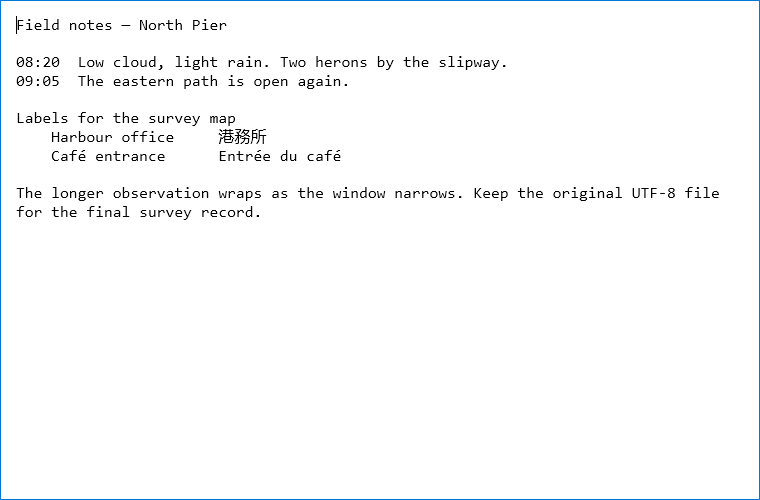
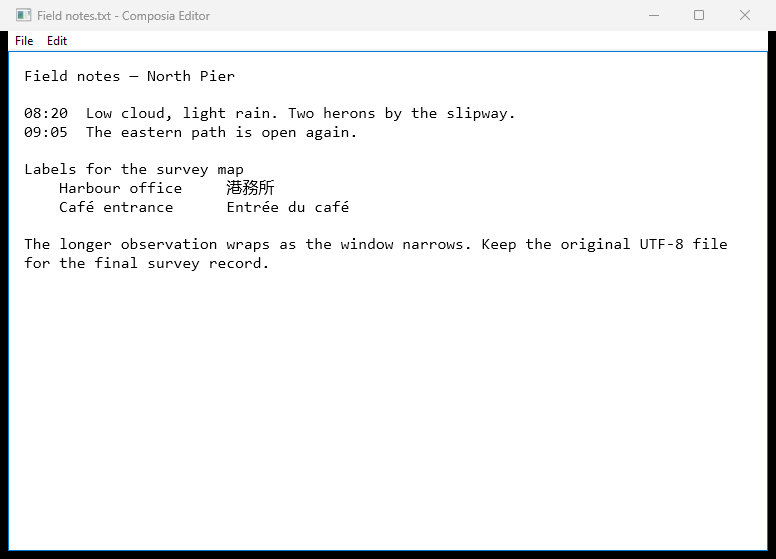
Give the editor a redirected window so Windows paints its native menu bar

diff --git a/tests/EditorTests.cpp b/tests/EditorTests.cpp
@@ -5,6 +5,35 @@
 
 using composia::testing::require;
 
+// SetMenu and GetMenuItemCount also succeed when a composition-only HWND has
+// nowhere to paint its native menu. Check the actual label pixels in the frame.
+static void check_menu_labels(HWND hwnd) {
+    RECT frame{};
+    THROW_IF_WIN32_BOOL_FALSE(GetWindowRect(hwnd, &frame));
+    const wil::unique_hdc_window screen{GetDC(nullptr)};
+    const wil::unique_hdc memory{CreateCompatibleDC(screen.get())};
+    const wil::unique_hbitmap bitmap{CreateCompatibleBitmap(screen.get(), frame.right - frame.left, frame.bottom - frame.top)};
+    require(memory && bitmap, "Could not allocate the editor frame capture");
+    const auto selected = wil::SelectObject(memory.get(), bitmap.get());
+    THROW_IF_WIN32_BOOL_FALSE(PrintWindow(hwnd, memory.get(), PW_RENDERFULLCONTENT));
+    for (UINT item = 0; item < 2; ++item) {
+        RECT bounds{};
+        THROW_IF_WIN32_BOOL_FALSE(GetMenuItemRect(hwnd, GetMenu(hwnd), item, &bounds));
+        OffsetRect(&bounds, -frame.left, -frame.top);
+        InflateRect(&bounds, -2, -2);
+        const auto background = GetPixel(memory.get(), bounds.left, bounds.top);
+        require(background != CLR_INVALID, "Menu item is outside the editor frame");
+        unsigned ink{};
+        for (LONG y = bounds.top; y < bounds.bottom; ++y) {
+            for (LONG x = bounds.left; x < bounds.right; ++x) {
+                const auto pixel = GetPixel(memory.get(), x, y);
+                if (pixel != CLR_INVALID && pixel != background) { ++ink; }
+            }
+        }
+        require(ink >= 8, "The editor menu label did not paint");
+    }
+}
+
 int main(int argc, char** argv) {
     return composia::testing::run(argc, argv, {{"document", [](const auto& options) {
         GUID id{};
@@ -22,6 +51,7 @@ int main(int argc, char** argv) {
             window.show(SW_SHOWNOACTIVATE);
             UpdateWindow(window.hwnd());
             require(GetMenuItemCount(GetMenu(window.hwnd())) == 2, "File and Edit menus must be attached");
+            check_menu_labels(window.hwnd());
             auto& field = dynamic_cast<composia::TextBox&>(window.elements().root());
             require(field.text() == L"Café 東京\rSecond line\r", "UTF-8 import or newline handling failed");
             window.focus_element(field);

diff --git a/src/ElementWindow.cpp b/src/ElementWindow.cpp
@@ -15,11 +15,15 @@ bool key_down(int key) { return (GetKeyState(key) & 0x8000) != 0; }
 
 ElementWindow::ElementWindow(Application& app, std::wstring_view title, int widthDip, int heightDip,
     std::shared_ptr<Element> root, HWND parent)
-    : Window(app, title, widthDip, heightDip, parent, WS_EX_NOREDIRECTIONBITMAP, true),
+    : ElementWindow(app, title, widthDip, heightDip, Content::composition, std::move(root), parent) {}
+
+ElementWindow::ElementWindow(Application& app, std::wstring_view title, int widthDip, int heightDip,
+    Content content, std::shared_ptr<Element> root, HWND parent)
+    : Window(app, title, widthDip, heightDip, parent, content == Content::composition ? WS_EX_NOREDIRECTIONBITMAP : 0, true),
       tree_(std::move(root), [this] {
           if (hwnd()) { THROW_IF_WIN32_BOOL_FALSE(PostMessageW(hwnd(), update_message(), 0, 0)); }
       }),
-      target_(*this, !parent || CompositionWindowTarget::hosts_children(parent)
+      target_(*this, content == Content::composition && (!parent || CompositionWindowTarget::hosts_children(parent))
           ? CompositionWindowTarget::Hosting::shared : CompositionWindowTarget::Hosting::standalone) {
     tree_.window_ = this;
     destroying_ = on_destroy([this] { ElementAutomation::disconnect(*this); tree_.release_window(); });

diff --git a/include/composia/ElementWindow.hpp b/include/composia/ElementWindow.hpp
@@ -7,11 +7,15 @@
 namespace composia {
 
 // A window or child pane that hosts one retained tree on one Composition drawing surface.
-// Uses shared hosting when top-level or when the parent has a shared target.
+// Composition-backed windows use shared hosting when top-level or when the parent has a shared target.
 class ElementWindow : public Window {
 public:
     ElementWindow(Application&, std::wstring_view title, int widthDip, int heightDip,
         std::shared_ptr<Element> root, HWND parent = nullptr);
+    // Use Content::native to keep the HWND backing bitmap for a Win32 menu bar.
+    // The retained tree still draws into its own standalone Composition target.
+    ElementWindow(Application&, std::wstring_view title, int widthDip, int heightDip,
+        Content, std::shared_ptr<Element> root, HWND parent = nullptr);
     ~ElementWindow() override;
     // Gives keyboard focus to this window and reveals the requested retained tab stop.
     bool focus_element(Element&);

diff --git a/examples/editor/Editor.cpp b/examples/editor/Editor.cpp
@@ -9,7 +9,7 @@ Editor::Editor(composia::Application& app)
         .name=L"Document", .multiline=true, .fontFamily=L"Consolas", .fontSize=16, .padding=16})) {}
 
 Editor::Editor(composia::Application& app, std::shared_ptr<composia::TextBox> field)
-    : ElementWindow(app, L"Untitled - Composia Editor", 760, 520, field), field_(std::move(field)) {
+    : ElementWindow(app, L"Untitled - Composia Editor", 760, 520, Content::native, field), field_(std::move(field)) {
     wil::unique_hmenu menu{LoadMenuW(GetModuleHandleW(nullptr), MAKEINTRESOURCEW(EDITOR_MENU))};
     THROW_LAST_ERROR_IF(!menu);
     THROW_IF_WIN32_BOOL_FALSE(SetMenu(hwnd(), menu.get()));

diff --git a/docs/guide.md b/docs/guide.md
@@ -138,6 +138,9 @@ animation on its own; nothing in the application needs a timer.
 `ElementWindow` hosts a tree in a top-level window or a child pane. It sizes the root
 to the client area, forwards mouse and keyboard input, and schedules partial paints.
 Pass a parent HWND to place a pane in the tab order beside native controls.
+For a window with a native Win32 menu bar, pass `Window::Content::native` before
+the root element. Windows can then paint the menu into the window's backing bitmap
+while Composia renders the document into a standalone Composition target.
 
 ```cpp
 #include <composia/ElementWindow.hpp>

diff --git a/examples/editor/README.md b/examples/editor/README.md
@@ -19,7 +19,7 @@ normalizes it to that convention. Input and output are limited to 16 MiB. A save
 writes and flushes a temporary file in the destination directory before replacing
 the original.
 
-![Editor client area with a multilingual survey document](editor.png)
+![Composia Editor showing the File and Edit menus above a multilingual survey document](editor.png)
 
 The window wires document commands to the retained editor. File decoding and
 replacement can be reused independently. [Editor.cpp](Editor.cpp) · [Document.cpp](Document.cpp)
